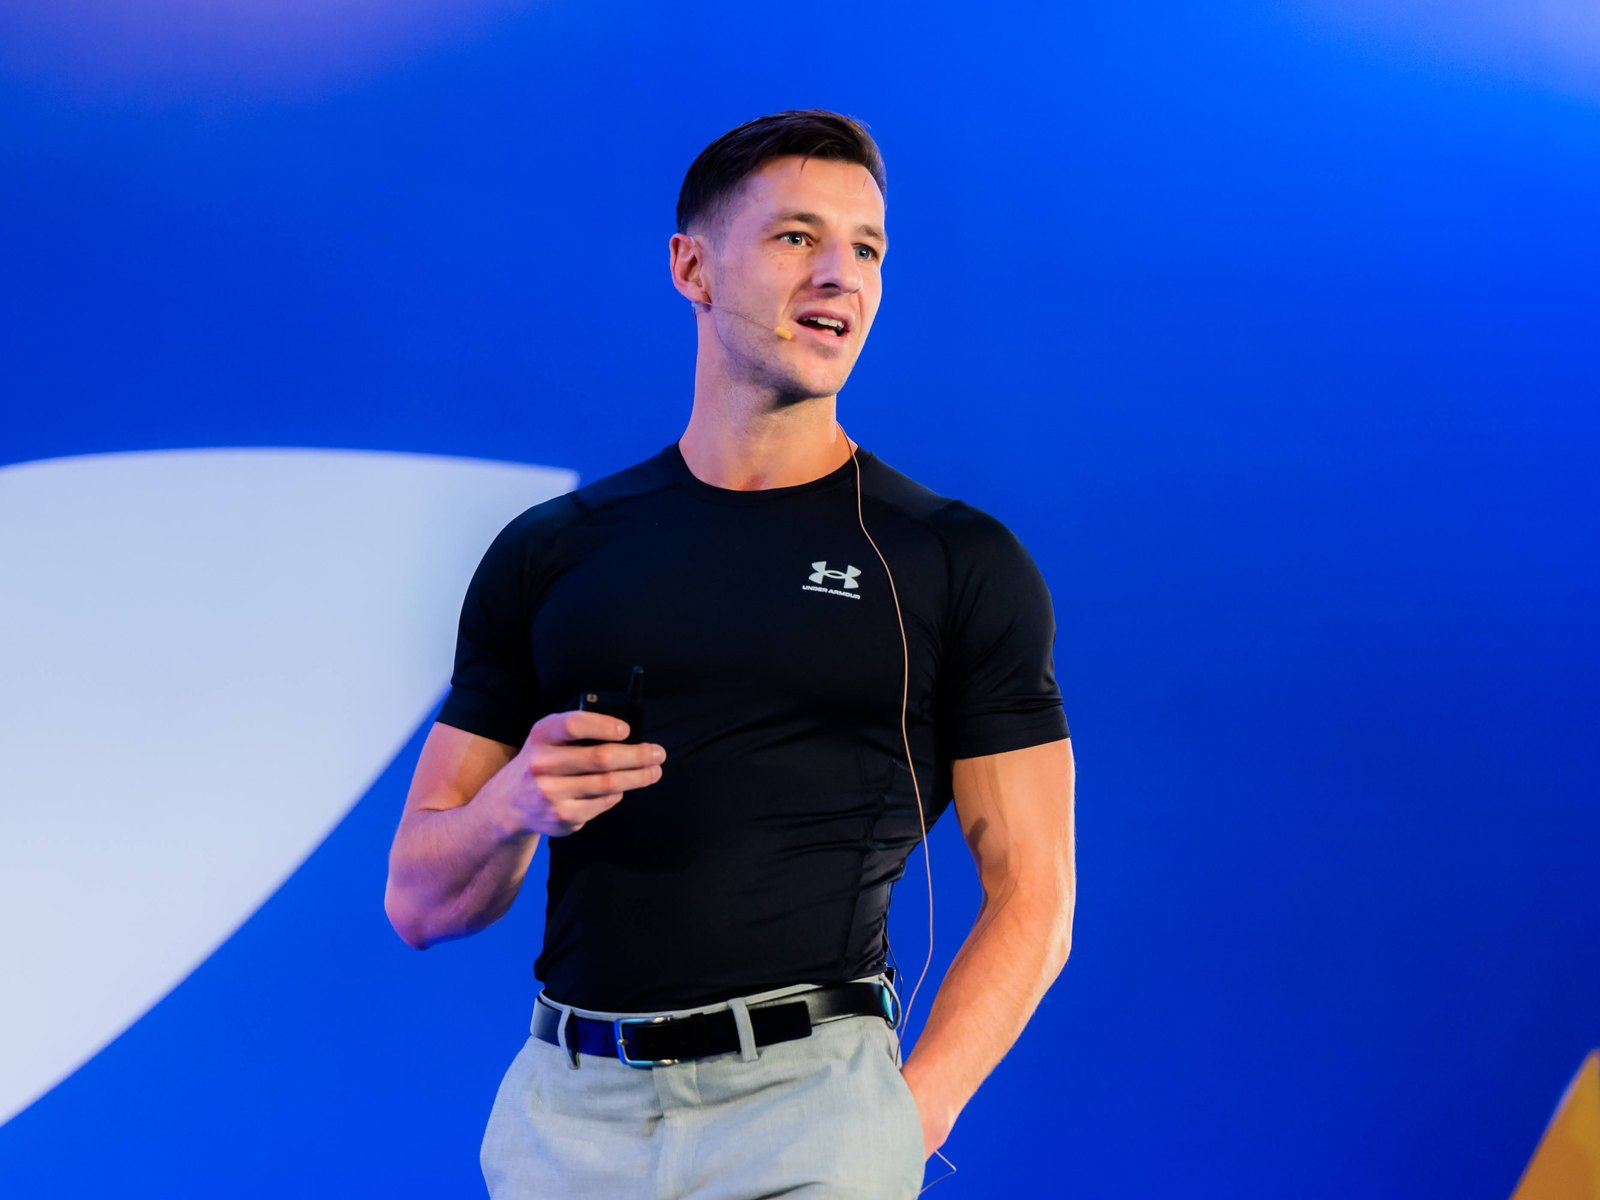
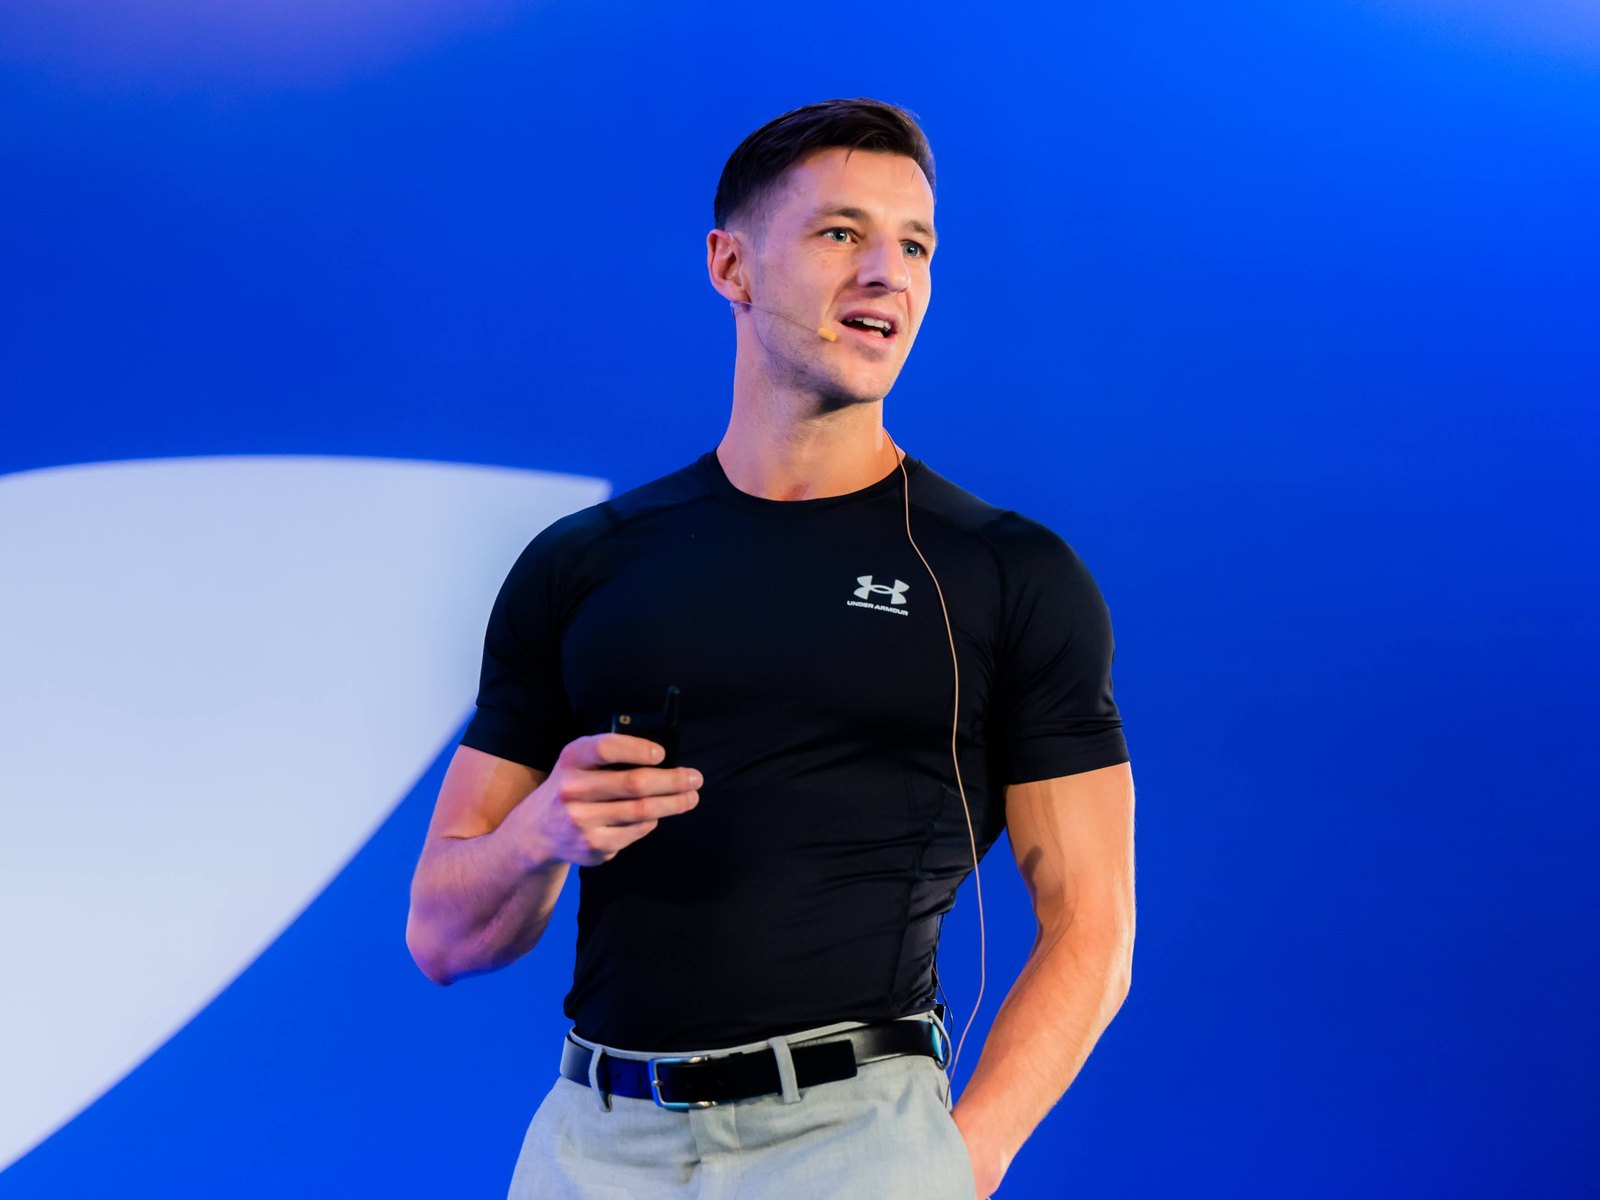
The Jordan keynote photo is re-cut so Delano stands at the exact centre of the frame

diff --git a/content/profile.ts b/content/profile.ts
@@ -118,7 +118,7 @@ export const CAROUSEL: CarouselImage[] = [
     location: "Jordan",
     year: "2022",
     photographer: "Karen Harms",
-    objectPosition: "62% 30%",
+    objectPosition: "50% 30%",
   },
   {
     src: "/carousel/production.jpg",
